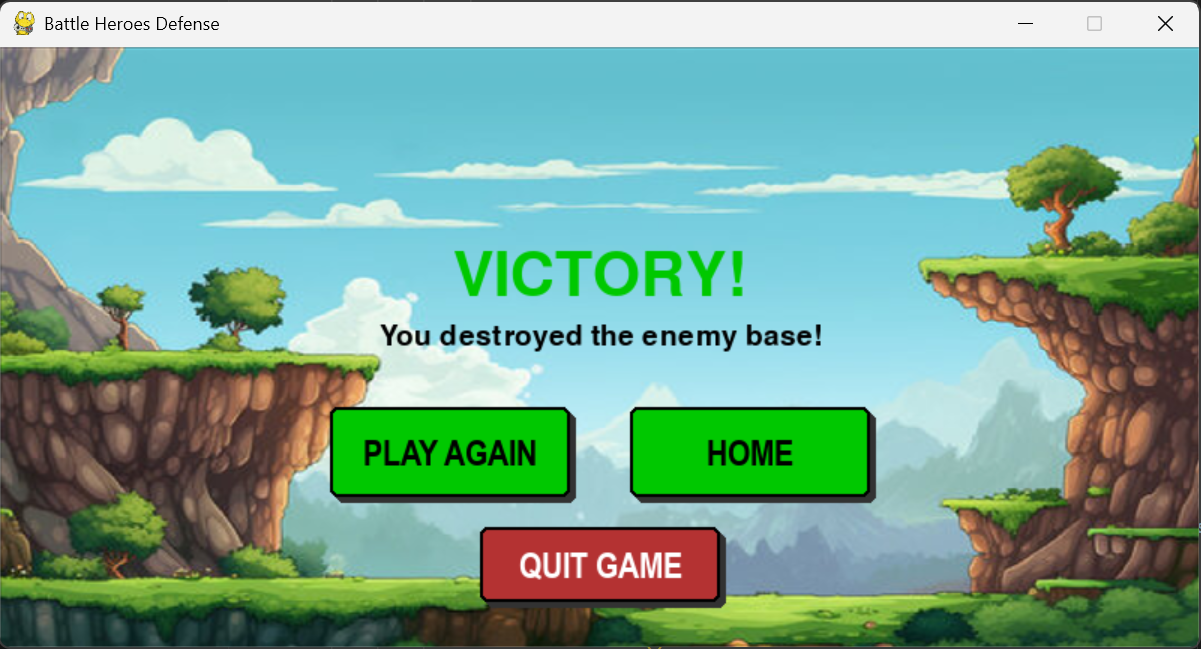
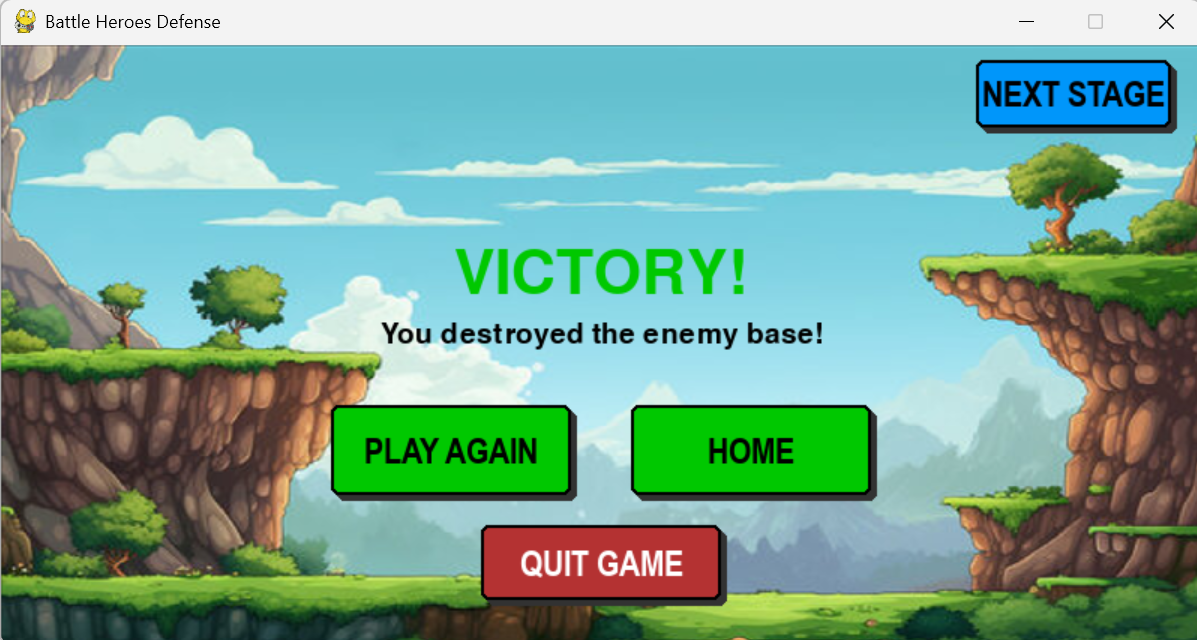
update screen shot

diff --git a/DESCRIPTION.md b/DESCRIPTION.md
@@ -10,6 +10,7 @@ Battle Heroes Defense is a 2D side-scrolling tower defense game inspired by Line
 - Each hero summon button has an individual cooldown.
 - AI-controlled enemies spawn and move toward the player base.
 - Use tactics and timing to defeat the enemy base before losing your own.
+- **Advance Stages** – After each victory, the player can proceed to the next stage where enemies become stronger (increased health), adding difficulty over time.
 
 ## UML Diagram
 ```html

diff --git a/README.md b/README.md
@@ -34,6 +34,7 @@ python "heros go!.py"
 - Deploy heroes: Archer, Warrior, Mage, Healer
 - Use strategic skills: Buffs, AOE attacks, Group Heals
 - Defend your base and destroy the enemy base to win
+- Win a stage to unlock the next, where enemies become stronger
 
 ---
 
